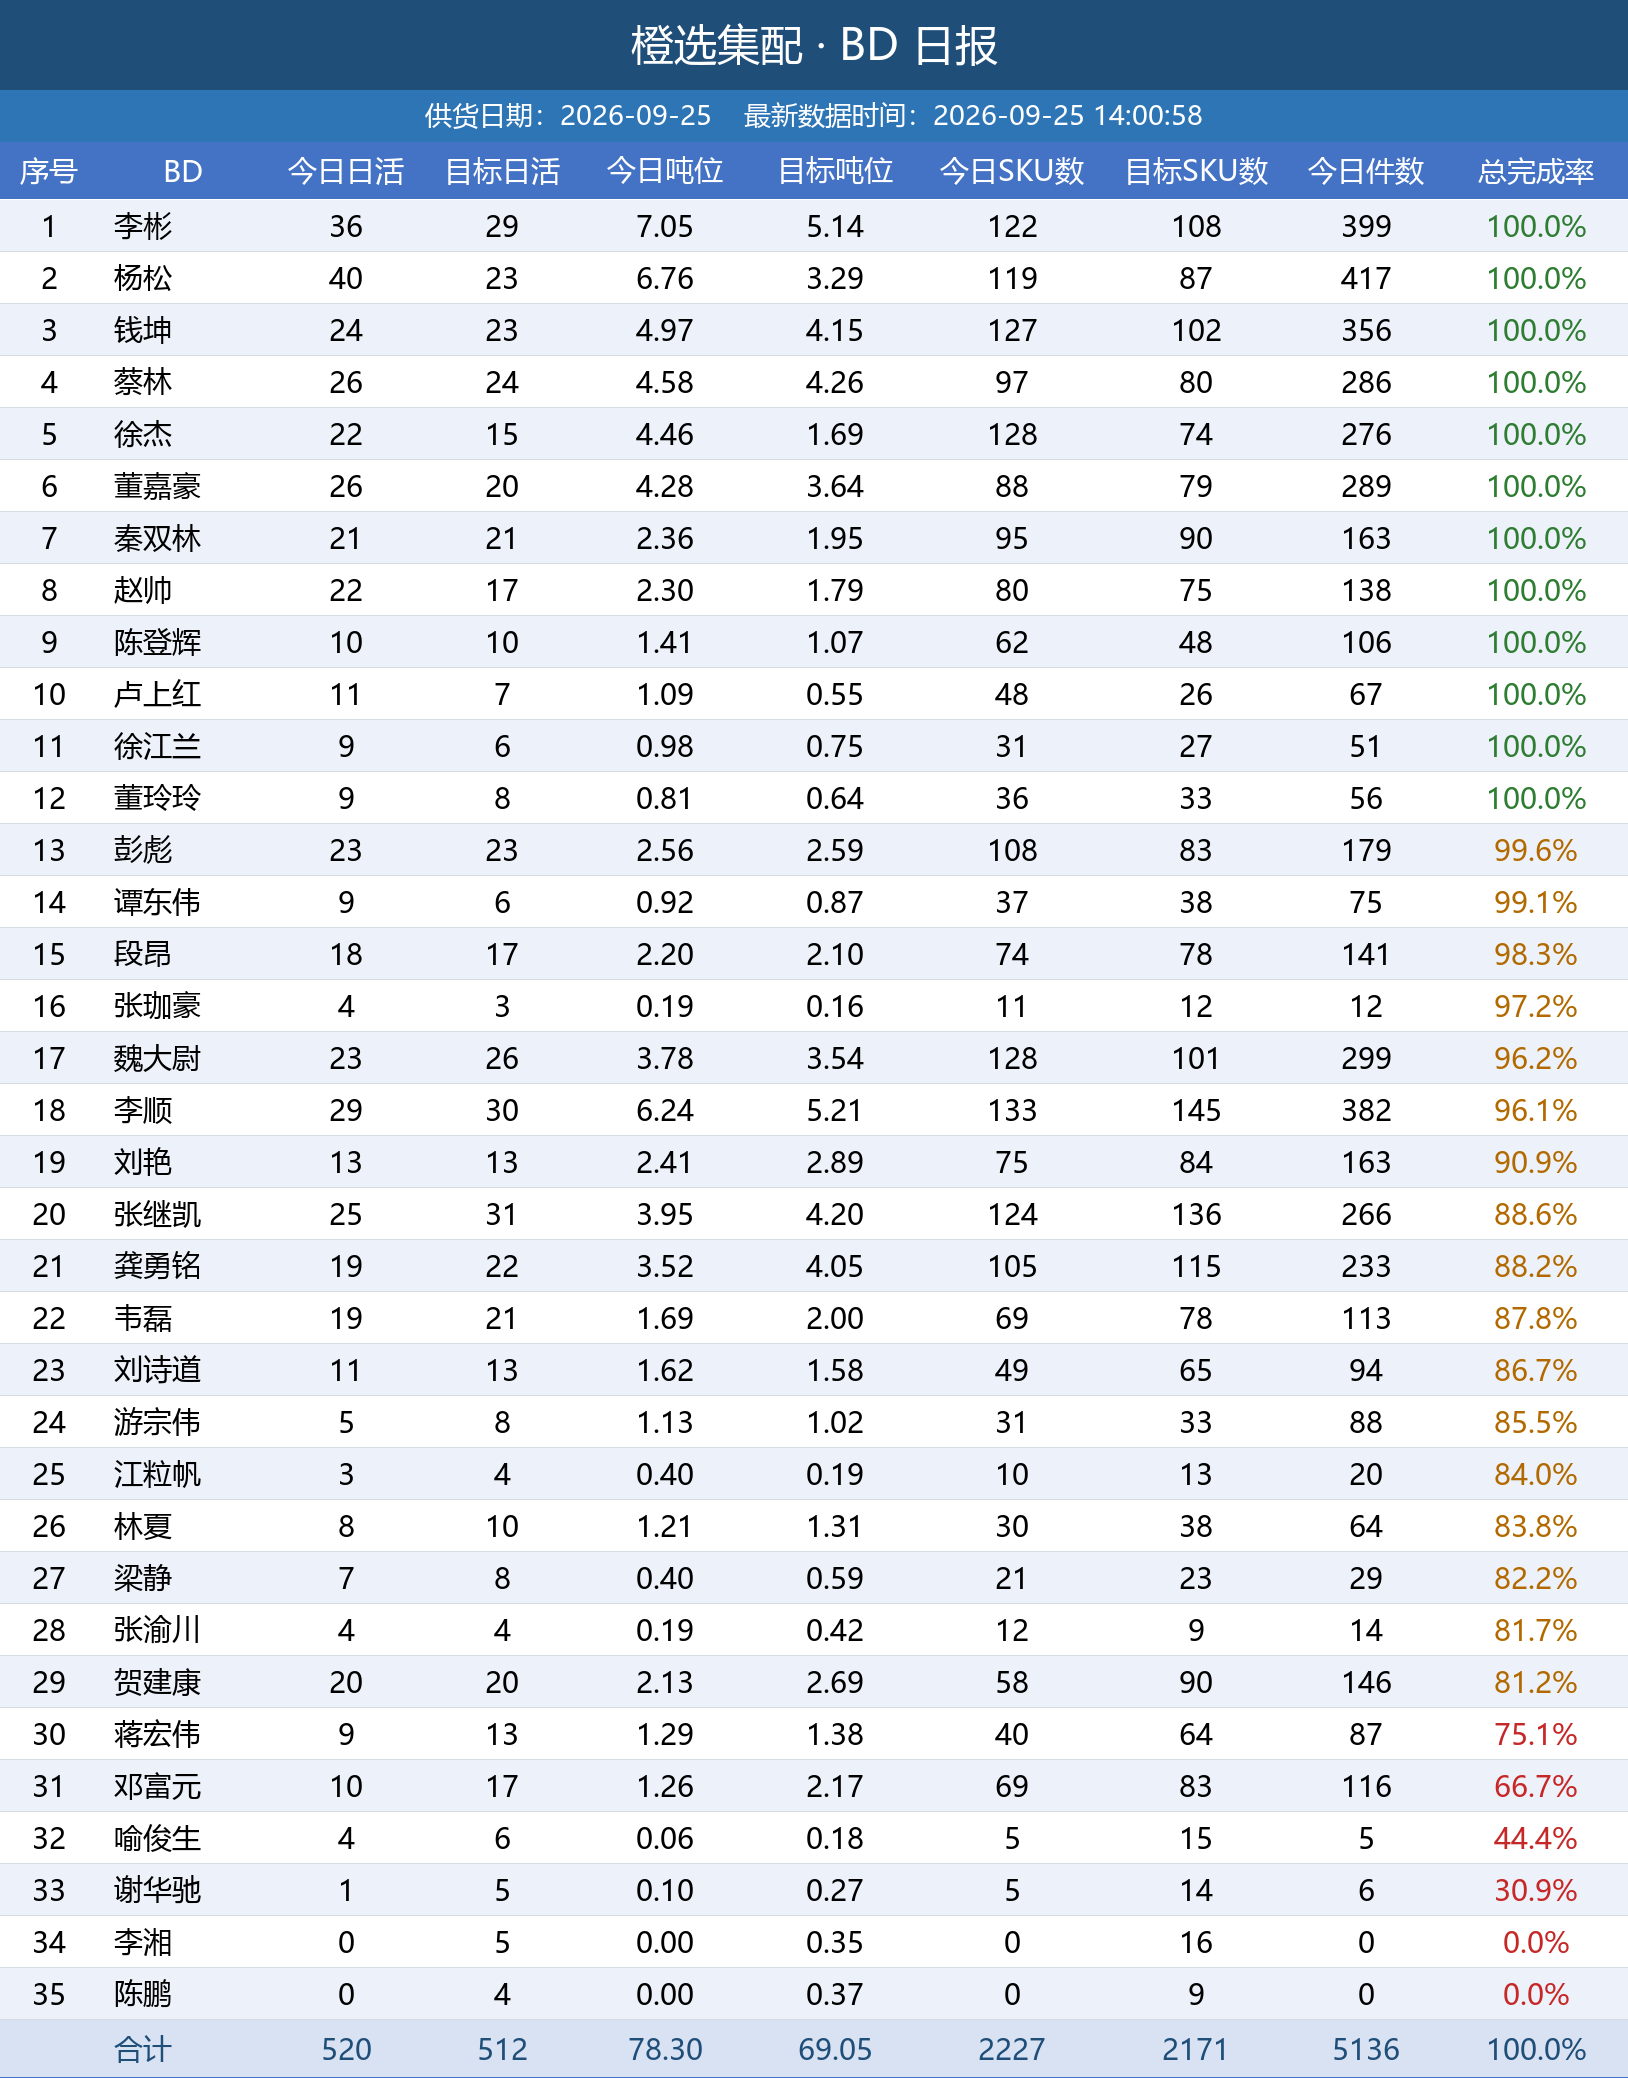
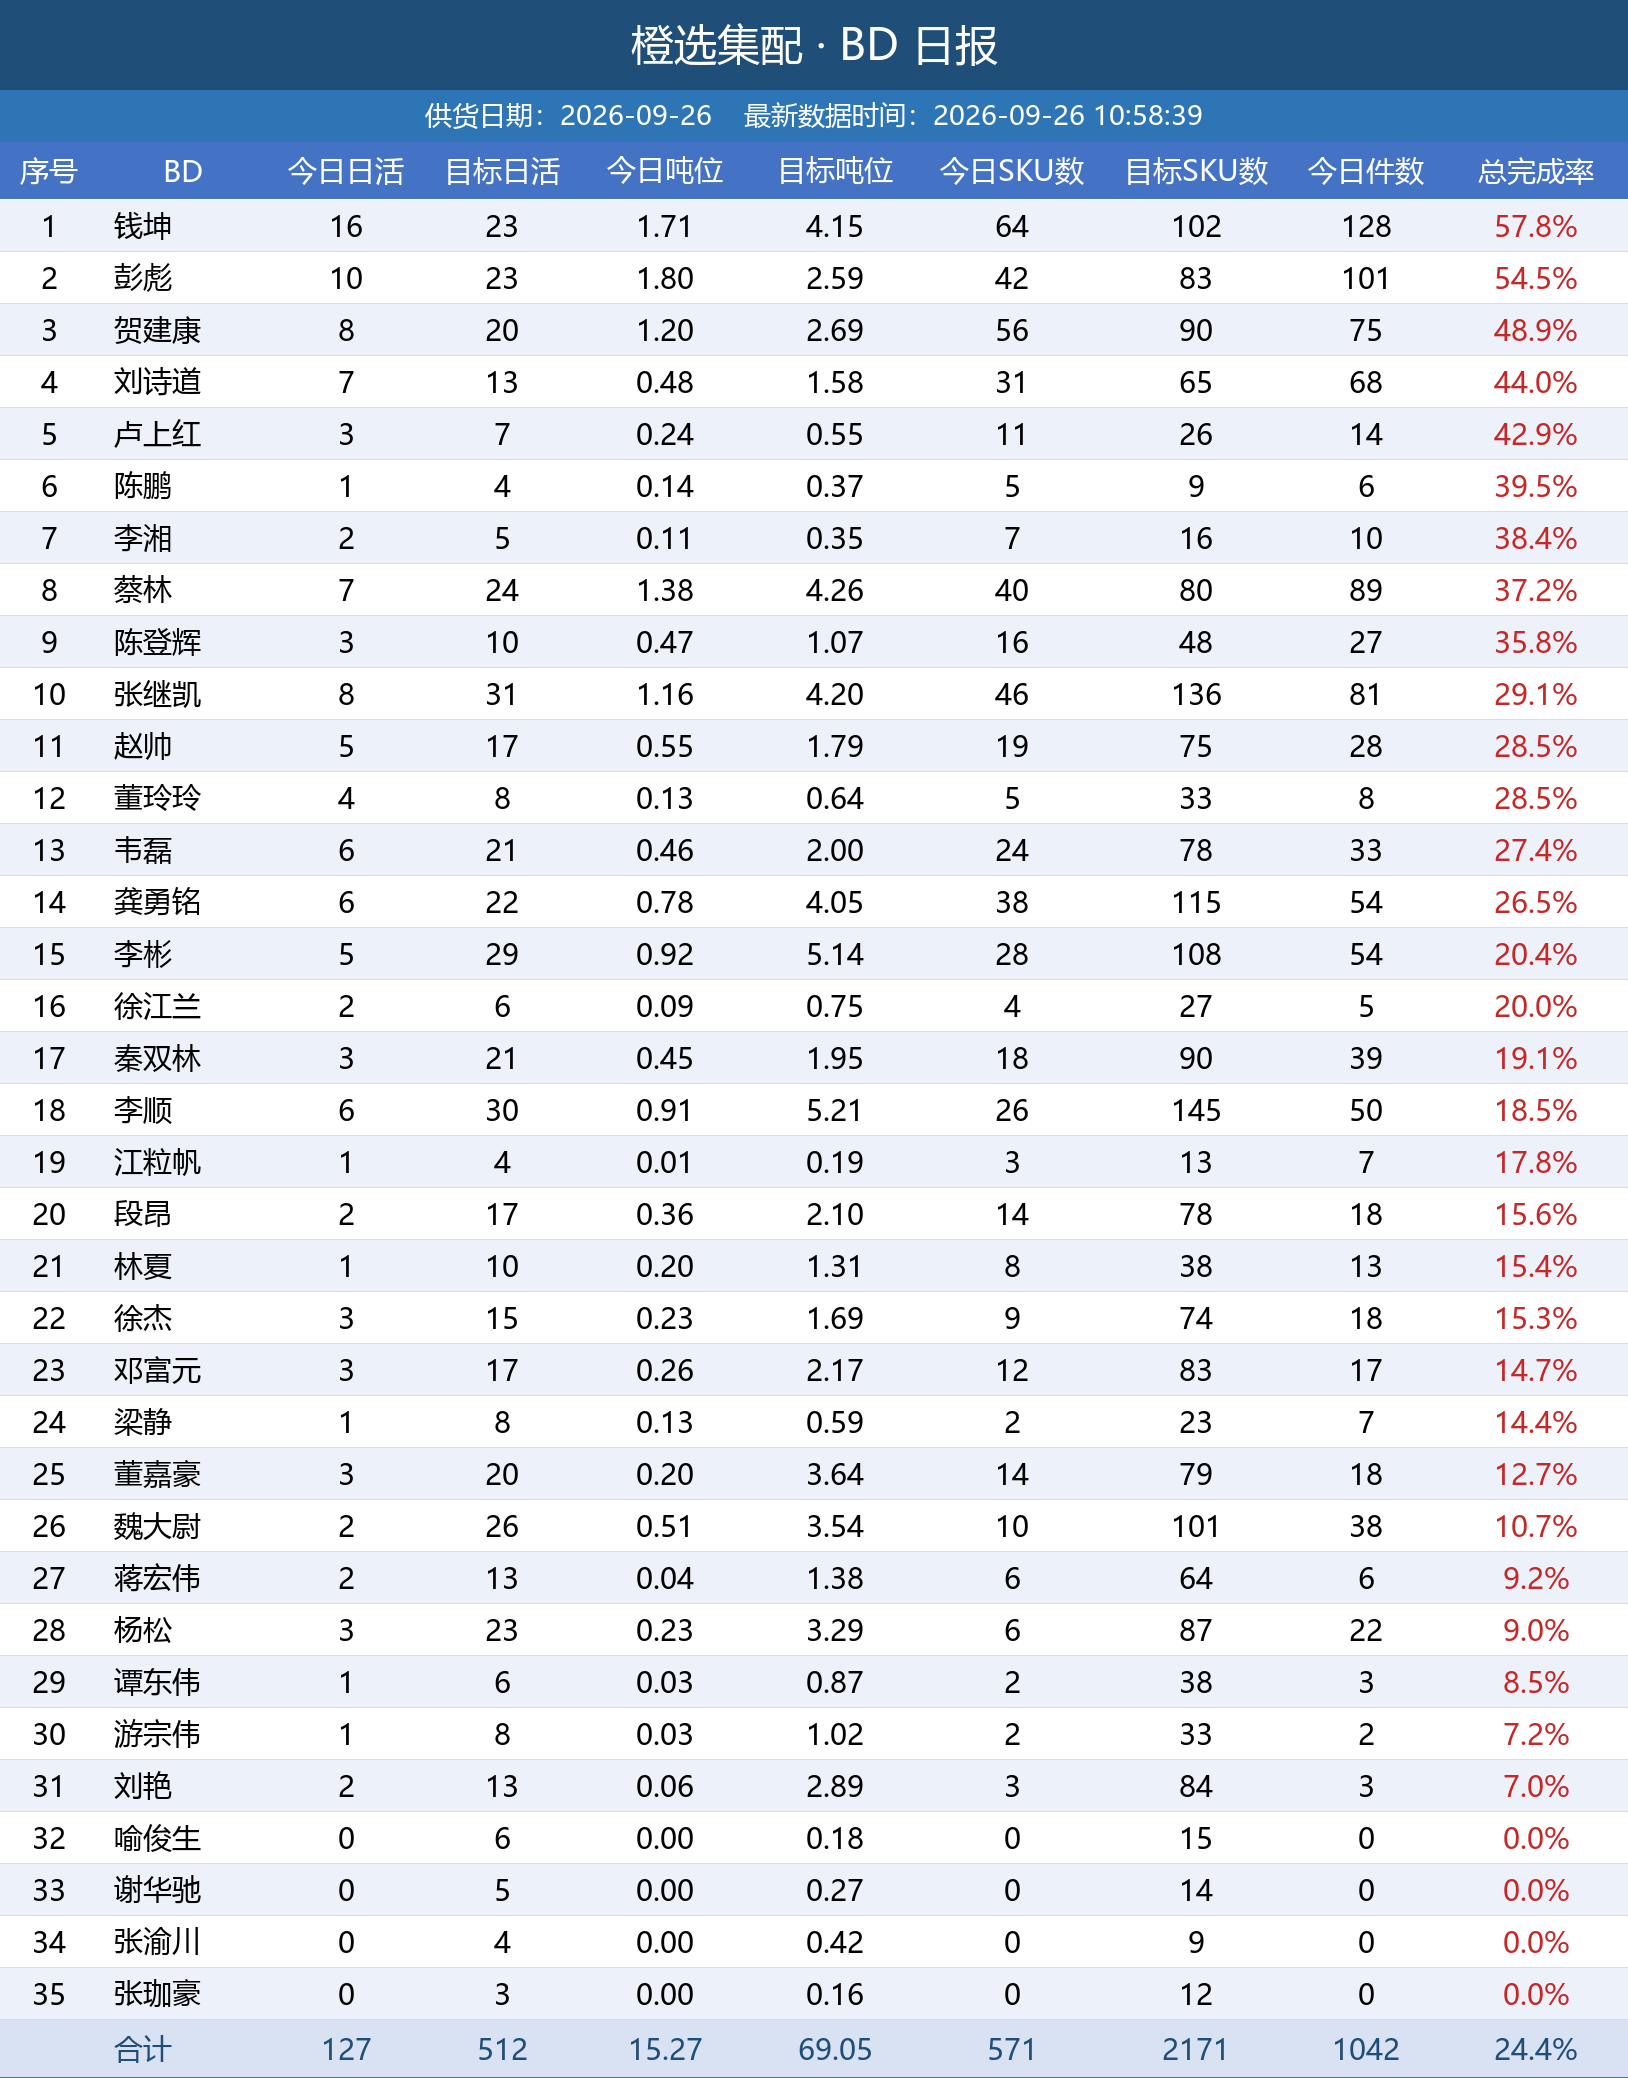
自动更新日报图片

diff --git a/daily_report/index.html b/daily_report/index.html
@@ -11,7 +11,7 @@ img { max-width: 100%; border: 1px solid #e5e5e5; margin-bottom: 24px; display: 
 </style>
 </head>
 <body>
-<h1>橙选集配日报图片（20260925_140257）</h1>
+<h1>橙选集配日报图片（20260926_110209）</h1>
 <img src="bd_latest.png" alt="BD 日报">
 <img src="wh_latest.png" alt="城市仓日报">
 <img src="zs_latest.png" alt="招商日报">
